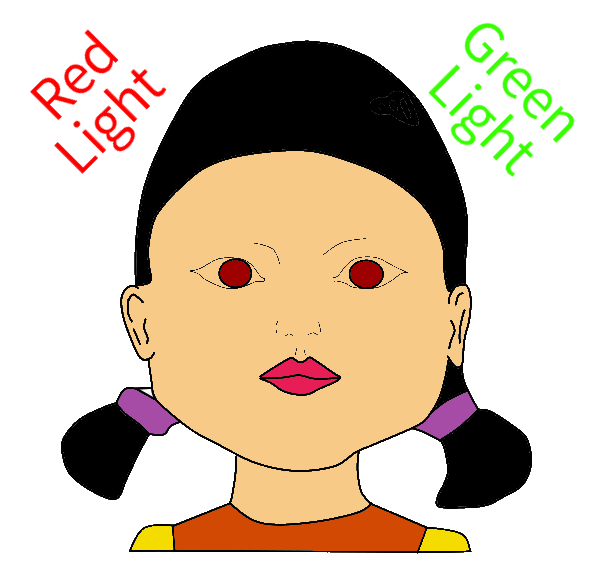
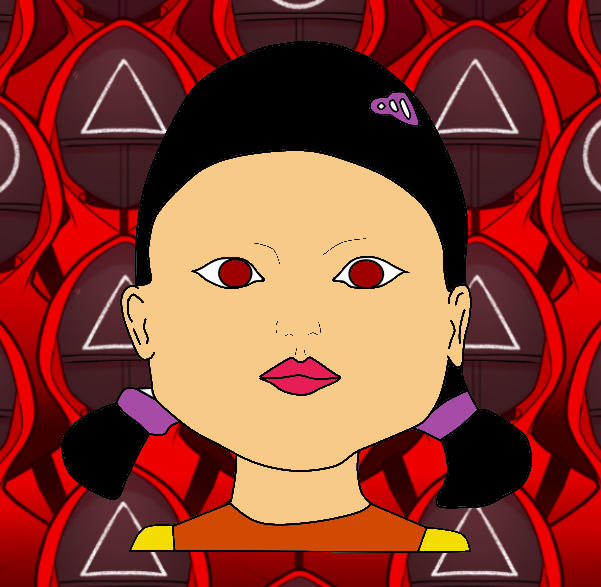
Completed mp_traversals: Terrible Traversals | Fixed Time Issues

diff --git a/mp_traversals/main.cpp b/mp_traversals/main.cpp
@@ -29,63 +29,82 @@ int main() {
   // MyColorPicker myColor("HuskyPUP.png");
   // RainbowColorPicker rainbow(0.05);
   // image.addFloodFill( bfs, myColor );
-  png.readFromFile("RedLightGreenLight (1).png");
+
+  // png.readFromFile("RedLightGreenLight (1).png");
+  // std::cout << png.height() << " " << png.width() << std::endl;
+  // FloodFilledImage image(png);
+  // DFS dfs(png, Point(100, 450), 0.70);
+  // DFS dfs2(png, Point(490, 450), 0.70);
+  // DFS dfs3(png, Point(140, 410), 0.70);
+  // DFS dfs4(png, Point(450, 410), 0.70);
+  // DFS dfs5(png, Point(400, 115), 0.70);
+  // DFS dfs6(png, Point(300, 500), 0.70);
+  // DFS dfs7(png, Point(300, 540), 0.70);
+  // DFS dfs8(png, Point(150, 540), 0.70);
+  // DFS dfs9(png, Point(445, 540), 0.70);
+  // DFS dfs10(png, Point(300, 365), 0.70);
+  // DFS dfs11(png, Point(300, 385), 0.70);
+  // DFS dfs12(png, Point(450, 380), 0.70);
+  // DFS dfs13(png, Point(375, 100), 0.70);
+  // DFS dfs_O(png, Point(0, 0), 0.70);
+
+  // BFS bfs(png, Point(300, 100), 0.70);
+  // BFS bfs2(png, Point(300, 300), 0.70);
+  // BFS bfs3(png, Point(235, 275), 0.70); // Eyes
+  // BFS bfs4(png, Point(365, 275), 0.70); // Eyes
+
+  // HSLAPixel pixel(0, 0, 0);
+  // HSLAPixel pixel2(300, 1, .25, 0.70);
+  // HSLAPixel pixel3(36, 0.87, 0.75, 1); // Skin Color
+  // HSLAPixel pixel4(0, 1, .31, 1); // Eye color
+  // HSLAPixel pixel5(20, 0.96, 0.42, 1); // Orange
+  // HSLAPixel pixel6(54, 1, 0.48, 1); // Yellow
+  // HSLAPixel pixel7(343, 0.81, 0.51, 1); // Pink
+
+  // SolidColorPicker black(pixel);
+  // SolidColorPicker purple(pixel2);
+  // SolidColorPicker skin(pixel3);
+  // SolidColorPicker eyes(pixel4);
+  // SolidColorPicker shirt1(pixel5);
+  // SolidColorPicker shirt2(pixel6);
+  // SolidColorPicker lips(pixel7);
+  // MyColorPicker myColor("background.png");
+
+  // image.addFloodFill( dfs, black ); // Pigtail 1
+  // image.addFloodFill( dfs2, black ); // Pigtail 2
+  // image.addFloodFill( dfs3, purple ); // Pigtail 1 tie
+  // image.addFloodFill( dfs4, purple ); // Pigtail 2 tie
+  // image.addFloodFill( bfs, black ); // Hair
+  // image.addFloodFill( dfs13, purple ); // Hair tie
+  // image.addFloodFill( bfs2, skin ); // Face
+  // image.addFloodFill( dfs6, skin ); // Neck
+  // image.addFloodFill( dfs7, shirt1 );
+  // image.addFloodFill( dfs8, shirt2 );
+  // image.addFloodFill( dfs9, shirt2 );
+  // image.addFloodFill( dfs10, lips );
+  // image.addFloodFill( dfs11, lips );
+  // image.addFloodFill( dfs12, black );
+  // image.addFloodFill( bfs3, eyes );
+  // image.addFloodFill( bfs4, eyes );
+  // image.addFloodFill( dfs_O, myColor );
+
+  // Animation animation = image.animate(3000);
+
+  png.readFromFile("white.png");
   std::cout << png.height() << " " << png.width() << std::endl;
+
   FloodFilledImage image(png);
-  DFS dfs(png, Point(100, 450), 0.70);
-  DFS dfs2(png, Point(490, 450), 0.70);
-  DFS dfs3(png, Point(140, 410), 0.70);
-  DFS dfs4(png, Point(450, 410), 0.70);
-  DFS dfs5(png, Point(400, 115), 0.70);
-  DFS dfs6(png, Point(300, 500), 0.70);
-  DFS dfs7(png, Point(300, 540), 0.70);
-  DFS dfs8(png, Point(150, 540), 0.70);
-  DFS dfs9(png, Point(445, 540), 0.70);
-  DFS dfs10(png, Point(300, 365), 0.70);
-  DFS dfs11(png, Point(300, 385), 0.70);
-  DFS dfs12(png, Point(450, 380), 0.70);
-  DFS dfs_O(png, Point(0, 0), 0.70);
-
-  BFS bfs(png, Point(300, 100), 0.70);
-  BFS bfs2(png, Point(300, 300), 0.70);
-  BFS bfs3(png, Point(235, 275), 0.70); // Eyes
-  BFS bfs4(png, Point(365, 275), 0.70); // Eyes
-
-  HSLAPixel pixel(0, 0, 0);
-  HSLAPixel pixel2(300, 1, .25, 0.70);
-  HSLAPixel pixel3(36, 0.87, 0.75, 1); // Skin Color
-  HSLAPixel pixel4(0, 1, .31, 1); // Eye color
-  HSLAPixel pixel5(20, 0.96, 0.42, 1); // Orange
-  HSLAPixel pixel6(54, 1, 0.48, 1); // Yellow
-  HSLAPixel pixel7(343, 0.81, 0.51, 1); // Pink
-
-  SolidColorPicker black(pixel);
-  SolidColorPicker purple(pixel2);
-  SolidColorPicker skin(pixel3);
-  SolidColorPicker eyes(pixel4);
-  SolidColorPicker shirt1(pixel5);
-  SolidColorPicker shirt2(pixel6);
-  SolidColorPicker lips(pixel7);
-  MyColorPicker myColor("background.png");
-
-  image.addFloodFill( dfs, black ); // Pigtail 1
-  image.addFloodFill( dfs2, black ); // Pigtail 2
-  image.addFloodFill( dfs3, purple ); // Pigtail 1 tie
-  image.addFloodFill( dfs4, purple ); // Pigtail 2 tie
-  image.addFloodFill( bfs, black );
-  image.addFloodFill( bfs2, skin ); // Face
-  image.addFloodFill( dfs6, skin ); // Neck
-  image.addFloodFill( dfs7, shirt1 );
-  image.addFloodFill( dfs8, shirt2 );
-  image.addFloodFill( dfs9, shirt2 );
-  image.addFloodFill( dfs10, lips );
-  image.addFloodFill( dfs11, lips );
-  image.addFloodFill( dfs12, black );
-  image.addFloodFill( bfs3, eyes );
-  image.addFloodFill( bfs4, eyes );
-  image.addFloodFill( dfs_O, myColor );
-
-  Animation animation = image.animate(2000);
+  DFS dfs(png, Point(0, 0), 1.50);
+  DFS dfs2(png, Point(650, 350), 1.00);
+  DFS dfs3(png, Point(50, 580), 1.00);
+  MyColorPicker layer("squid.png");
+  MyColorPicker layer2("squid2.png");
+  MyColorPicker layer3("squid3.png");
+  image.addFloodFill( dfs3, layer );
+  image.addFloodFill( dfs, layer2 );
+  image.addFloodFill( dfs2, layer3 );
+  
+  Animation animation = image.animate(9000);
 
   PNG lastFrame = animation.getFrame( animation.frameCount() - 1 );
   lastFrame.writeToFile("myFloodFill.png");

diff --git a/mp_traversals/FloodFilledImage.cpp b/mp_traversals/FloodFilledImage.cpp
@@ -71,23 +71,27 @@ Animation FloodFilledImage::animate(unsigned frameInterval) const {
     ImageTraversal* curr_traversal = traversal_[i];
     // Does the traversal
     unsigned interval = 0;
-    for (ImageTraversal::Iterator it = curr_traversal->begin(); it != curr_traversal->end(); ++it) {
+    // for (auto it = curr_traversal->begin(); it != curr_traversal->end(); ++it) {
+    for (const Point & p : *curr_traversal ) {
       // Adds frame after certain interval number
       if (interval % frameInterval == 0) {
         animation.addFrame(curr_image);
       }
       interval++;
       // Gets the Point pixel from the traversal
-      cs225::HSLAPixel & pixel = curr_image.getPixel((*it).x, (*it).y);
+      //cs225::HSLAPixel & pixel = curr_image.getPixel((*it).x, (*it).y);
+      cs225::HSLAPixel & pixel = curr_image.getPixel(p.x, p.y);
       // Changes pixel color based on color_picker
-      pixel = color_picker[i]->getColor((*it).x, (*it).y);
+      //pixel = color_picker[i]->getColor((*it).x, (*it).y);
+      pixel = color_picker[i]->getColor(p.x, p.y);
     }
   }
-  unsigned i = 0;
-  while (i != 20) {
-    animation.addFrame(curr_image);
-    i++;
-  }
+  animation.addFrame(curr_image);
+  // unsigned i = 0;
+  // while (i != 20) {
+  //   animation.addFrame(curr_image);
+  //   i++;
+  // }
 
   return animation;
 }
